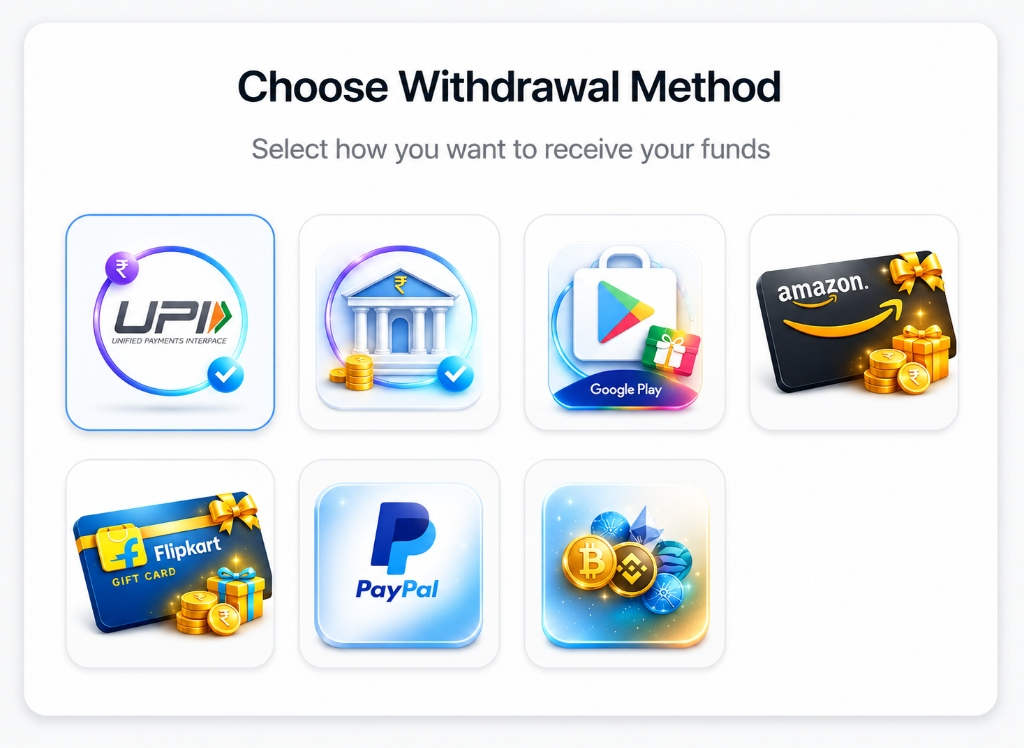
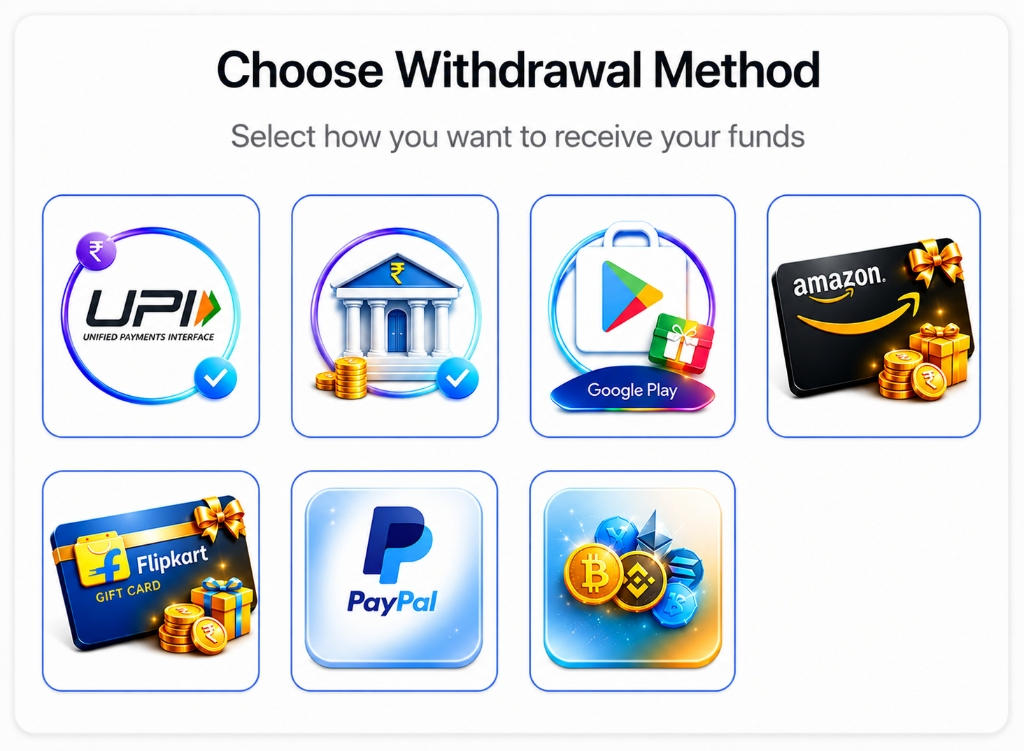
Replace layout image with user edited version having baked-in borders and update hotspot style rules to transparent borders

diff --git a/src/pages/user/single/withdraw.js b/src/pages/user/single/withdraw.js
@@ -961,20 +961,17 @@ const showWithdrawPage = () => {
             const content = `
                 <style>
                     .payment-option-container .payment-option {
-                        border: 1.8px solid rgba(96, 165, 250, 0.55) !important;
-                        box-shadow: 0 0 6px rgba(96, 165, 250, 0.12);
+                        border: 2px solid transparent !important;
                         transition: all 0.15s ease-in-out;
                         -webkit-tap-highlight-color: transparent;
                         background-color: transparent !important;
                     }
                     .payment-option-container .payment-option:hover {
-                        border-color: rgba(59, 130, 246, 0.8) !important;
-                        box-shadow: 0 0 8px rgba(59, 130, 246, 0.25) !important;
+                        background-color: rgba(59, 130, 246, 0.04) !important;
                     }
                     .payment-option-container .payment-option.selected {
-                        border-color: rgba(96, 165, 250, 0.55) !important;
-                        box-shadow: 0 0 6px rgba(96, 165, 250, 0.12) !important;
-                        background-color: transparent !important;
+                        background-color: rgba(59, 130, 246, 0.08) !important;
+                        box-shadow: inset 0 0 0 2px rgba(59, 130, 246, 0.15) !important;
                     }
                 </style>
                 ${getPageHeader('Withdraw Funds')}
